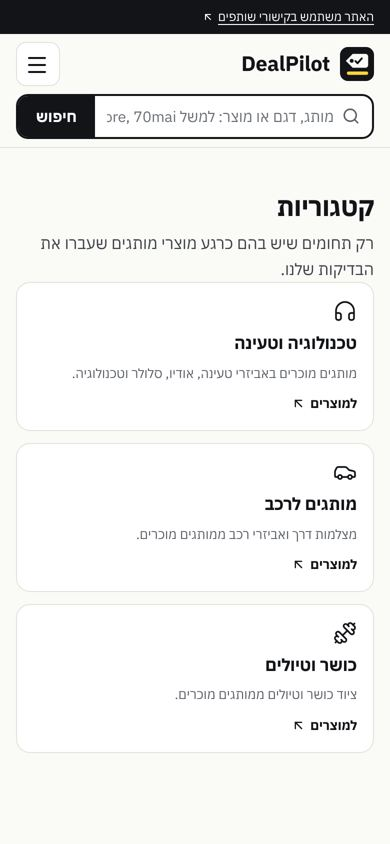
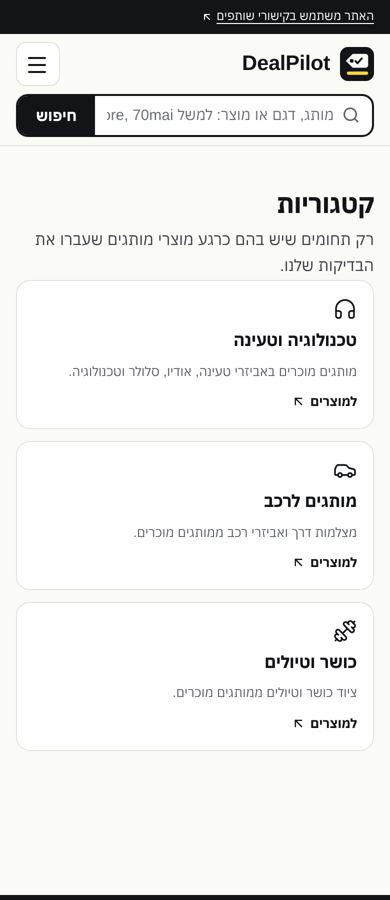
docs: correct trial verdict (main fails owner rules; checked live), provable expansion yield, outside-repo actions; tabs test asserts ?cat= and aria-current; car category copy
Claude-Session: https://claude.ai/code/session_01KCAQvVDfxRc58y86KMjZqY

diff --git a/tests/e2e/catalog.spec.ts b/tests/e2e/catalog.spec.ts
@@ -195,8 +195,11 @@ test("category tabs list only categories that hold listed products", async ({ pa
   // Every tab leads to a category page that lists products.
   for (const label of labels) {
     await page.getByRole("navigation", { name: "קטגוריות" }).getByRole("link", { name: label, exact: true }).click();
+    await expect(page).toHaveURL(/\/deals\?cat=[a-z]+/);
+    await expect(page.getByRole("navigation", { name: "קטגוריות" }).getByRole("link", { name: label, exact: true })).toHaveAttribute("aria-current", "page");
     await expect(page.locator(".dp-product").first()).toBeVisible();
     await page.goto("/deals");
+    await expect(page.locator(".dp-product").first()).toBeVisible();
   }
   expect(cats.length).toBeGreaterThan(0);
 });

diff --git a/lib/dealpilot/categories.ts b/lib/dealpilot/categories.ts
@@ -17,7 +17,7 @@ export const categories = [
   {
     slug: "car", label: "מותגים לרכב", term: "70mai",
     terms: ["70mai", "VIOFO", "DDPAI", "Baseus car", "Baseus car holder", "Baseus car charger"],
-    description: "מצלמות דרך ואביזרי רכב ממותגים מוכרים.",
+    description: "אביזרי רכב ממותגים מוכרים: טעינה, אחיזה ומשאבות.",
   },
   {
     slug: "sport", label: "כושר וטיולים", term: "Amazfit",

diff --git a/docs/TRIAL-READINESS.md b/docs/TRIAL-READINESS.md
@@ -1,8 +1,13 @@
 # Trial launch readiness, 2026-11-17
 
-**Scope:** business readiness for a limited trial launch.
-- **Nothing merged to `main`.** Production code is unchanged.
-- **Two owner-requested data actions on Production:** the parts listing was unpublished, and the full link check was recorded. Both are in `docs/CATALOG-ACTIONS.md`.
+**Scope:** business readiness for a limited trial launch. Nothing merged to `main`; Production code is unchanged.
+
+**Done outside the repository** (details in `docs/CATALOG-ACTIONS.md`):
+1. Unpublished product 1005009849771017 in the Production database (owner request), with an event logged.
+2. Recorded run 14 (`link_check`, manual) and set `link_status` on 46 products.
+3. **Followed 46 AliExpress promotion links** from this session. They may appear as about 46 clicks in the AliExpress affiliate portal.
+4. Test click rows 2 and 3 in `dp_click_events`. Row 3 was unintended.
+5. Eight hosts added to this cloud environment's network allowlist, through owner-approved prompts.
 
 ## Numbers (live database, 2026-11-17)
 | Measure | Value | Evidence |
@@ -40,18 +45,21 @@
 | 4 | Price refresh has no slack: one missed daily run pushes prices past 48 h (then hidden) | Catalog could go priceless for a day | Consider a second daily window |
 | 5 | Unpublishing by SQL leaves a stale cached redirect for up to one request | Use `/admin/catalog`, which clears the cache | Process |
 | 6 | Test click rows 2–3 in the click table | Inflates click count by 2 | Exclude or delete on owner's word |
-| 7 | The no-DB fallback path builds slowly with more terms (about 65 s cold) | Local or fallback only; Production uses the DB | Low |
+| 7 | **Regression on the no-DB path:** the cold build now takes about 65 s (was under 30 s) with the extra terms. Test warm-up waits were raised to 110 s to match | Local tests and the fallback only; Production reads the DB | Low |
 | 8 | Availability, stock and checkout price per variant | NOT VERIFIED; the site makes no claim | – |
 
 ## Assessment
-**Ready for a limited, invite-only trial on Production as it is today (`main`):**
-- prices are verified and fresh;
-- 45/45 links are verified;
-- click tracking works;
-- the invalid listing is removed.
+**Production as it is today (`main`) does NOT meet the owner's rules for a trial.** Checked live on 2026-11-17:
+- The **empty "home" category is still linked** in the catalog tabs (`/deals?cat=home`), and `/categories/home` shows "0 products".
+- Seller sale banners appear in titles ("מבצע חדש", "Top Sale"), and wall chargers are listed under "car".
+- There are 10–16 colour-contrast violations on the home page, and no final-price note.
 
-**The branch is better for a trial**, with its accessibility, image weight, honest categories and the final-price note. But it must not go live until the owner:
-- (a) sends the Preview link and the LCP check passes;
-- (b) approves the merge.
+**Prices, links and click tracking are already sound on `main`**: 45/45 links verified, prices under 48 h, clicks recorded.
 
-**Not ready for a public, branded launch:** the name is not chosen, and trademark and `.co.il` are unverified.
+**The branch fixes those gaps** and passes all tests (unit 121/121, e2e 44/44, axe 0 on real data). A limited trial is reasonable **after**:
+- (a) the owner sends the Preview link and the LCP check on Preview passes;
+- (b) the owner approves the merge.
+
+If the owner prefers to start before the merge, it should be with these gaps accepted knowingly.
+
+**Not ready for a public, branded launch:** no name is chosen, and trademark and `.co.il` are unverified.

diff --git a/docs/CATALOG-EXPANSION.md b/docs/CATALOG-EXPANSION.md
@@ -6,7 +6,9 @@
 
 ## What the data says
 
-| Search term | Fetched | Brand verified | Above 5,000 sales with brand | 1,000–5,000 sales with brand | Avg. commission (brand) | Published |
+Per search term. **A term is not a brand:** the Soundcore, Edifier and POCO rows below count Baseus and UGREEN products those searches returned; no Soundcore, Edifier or POCO product is published.
+
+| Search term | Fetched | Brand verified (any brand) | Above 5,000 sales with brand | 1,000–5,000 sales with brand | Avg. commission (brand) | Published |
 |---|---|---|---|---|---|---|
 | UGREEN | 94 | 79 | **15** | 64 | 7.5% | 15 |
 | ROCKBROS | 100 | 38 | **12** | 26 | 7.0% | 12 |
@@ -39,12 +41,21 @@ Findings:
 
 ## What changed in the code (branch only)
 - **New brand:** Toocki (four brand stores, 9% commission, two items above 5,000).
-- **Model-level search terms.** Results are sorted by sales, so a new term surfaces new products, while a repeated term returns the same exhausted list.
+- **Model-level search terms.** This is an assumption: a new term *may* surface products the broad term missed. Two of its targets, Nexode Air and Studio Pro, are already published.
   - Tech: `UGREEN Nexode`, `UGREEN USB C hub`, `UGREEN earbuds`, `Baseus charger`, `Baseus power bank`, `Baseus earbuds`, `QCY earbuds`, `Toocki`.
   - Car: `Baseus car holder`, `Baseus car charger`.
   - Sport: `ROCKBROS bike light`, `ROCKBROS cycling bag`.
 - **Removed:** the bare `Baseus` term (99 results, 0 verified: it returned unrelated products). Removed terms are deactivated automatically on the next sync.
 - **Not added:** Ulanzi, 70mai, eufy, Naturehike, Haylou and Moondrop. They have brand stores, but no product above 5,000 sales. That is the owner's threshold decision to keep, and it was not relaxed.
+
+## Provable yield, and the real lever (read-only queries)
+- **Toocki:** 3 stored products would pass every rule once the brand is added. That is the only yield the data proves.
+- **Brand-verified products above 5,000 sales that are not yet published:** 0. The 1 found was the parts listing, now removed. Headroom above the current threshold is close to exhausted for these brands.
+- **The real growth lever is the threshold:**
+  - 73 brand-verified stored products have 3,000–5,000 reported sales, 45 of them from brand-run stores (UGREEN, Ulanzi, QCY, Toocki and others).
+  - Lowering the threshold to 3,000 would make them eligible.
+  - **That is the owner's decision.** It was not changed here.
+- Re-ingesting a product does not change its category (`dp_ingest` keeps the first one), so the new "Baseus charger" term cannot pull car products out of "car".
 
 ## What is NOT verified
 - **No new product was imported in this round.** The new terms reach the live job only after a merge; there are no AliExpress API credentials in this environment. How many new products they will yield is unknown. Expect some, not a target number.

diff --git a/docs/LAUNCH-READINESS.md b/docs/LAUNCH-READINESS.md
@@ -1,3 +1,5 @@
+> **Superseded 2026-11-17 (afternoon) by `docs/TRIAL-READINESS.md`.** Since this report: the Dreame listing was unpublished, all 46 links were checked (run 14), and empty categories are hidden on the branch.
+
 # Launch readiness, 2026-11-17
 
 Branch `claude/sharp-meitner-w6pgaa`. Production code is unchanged and nothing is merged to `main`.
